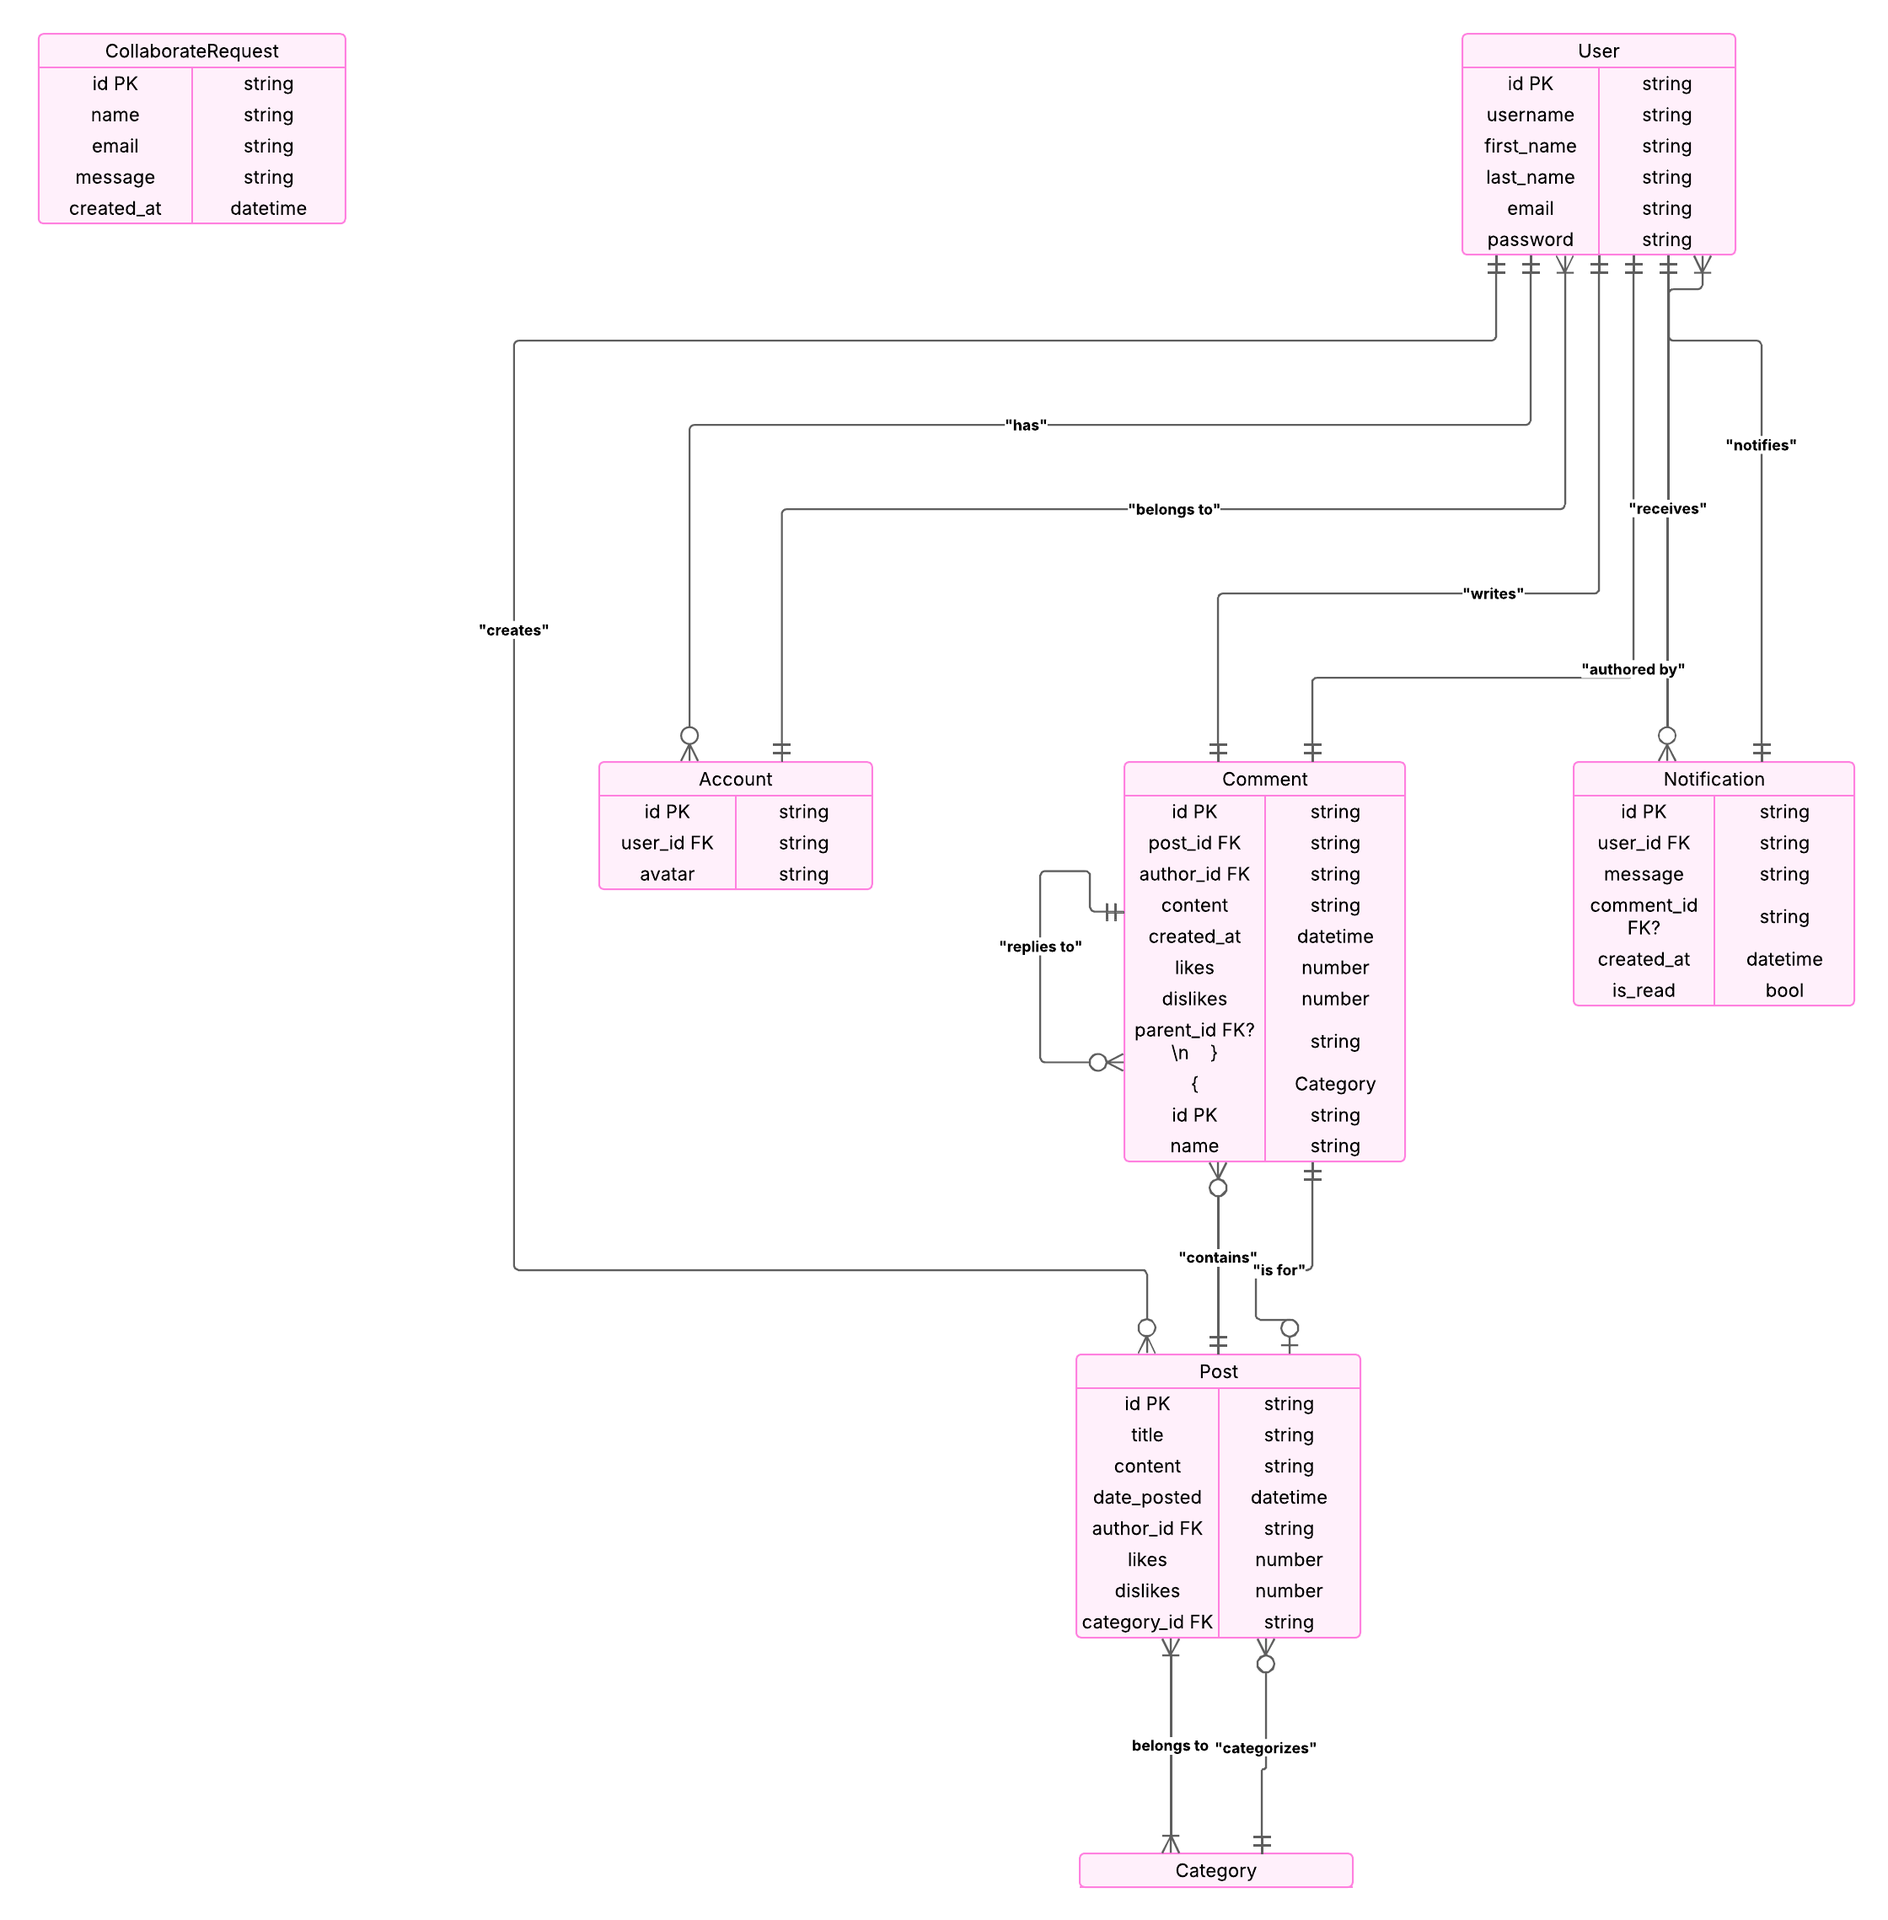
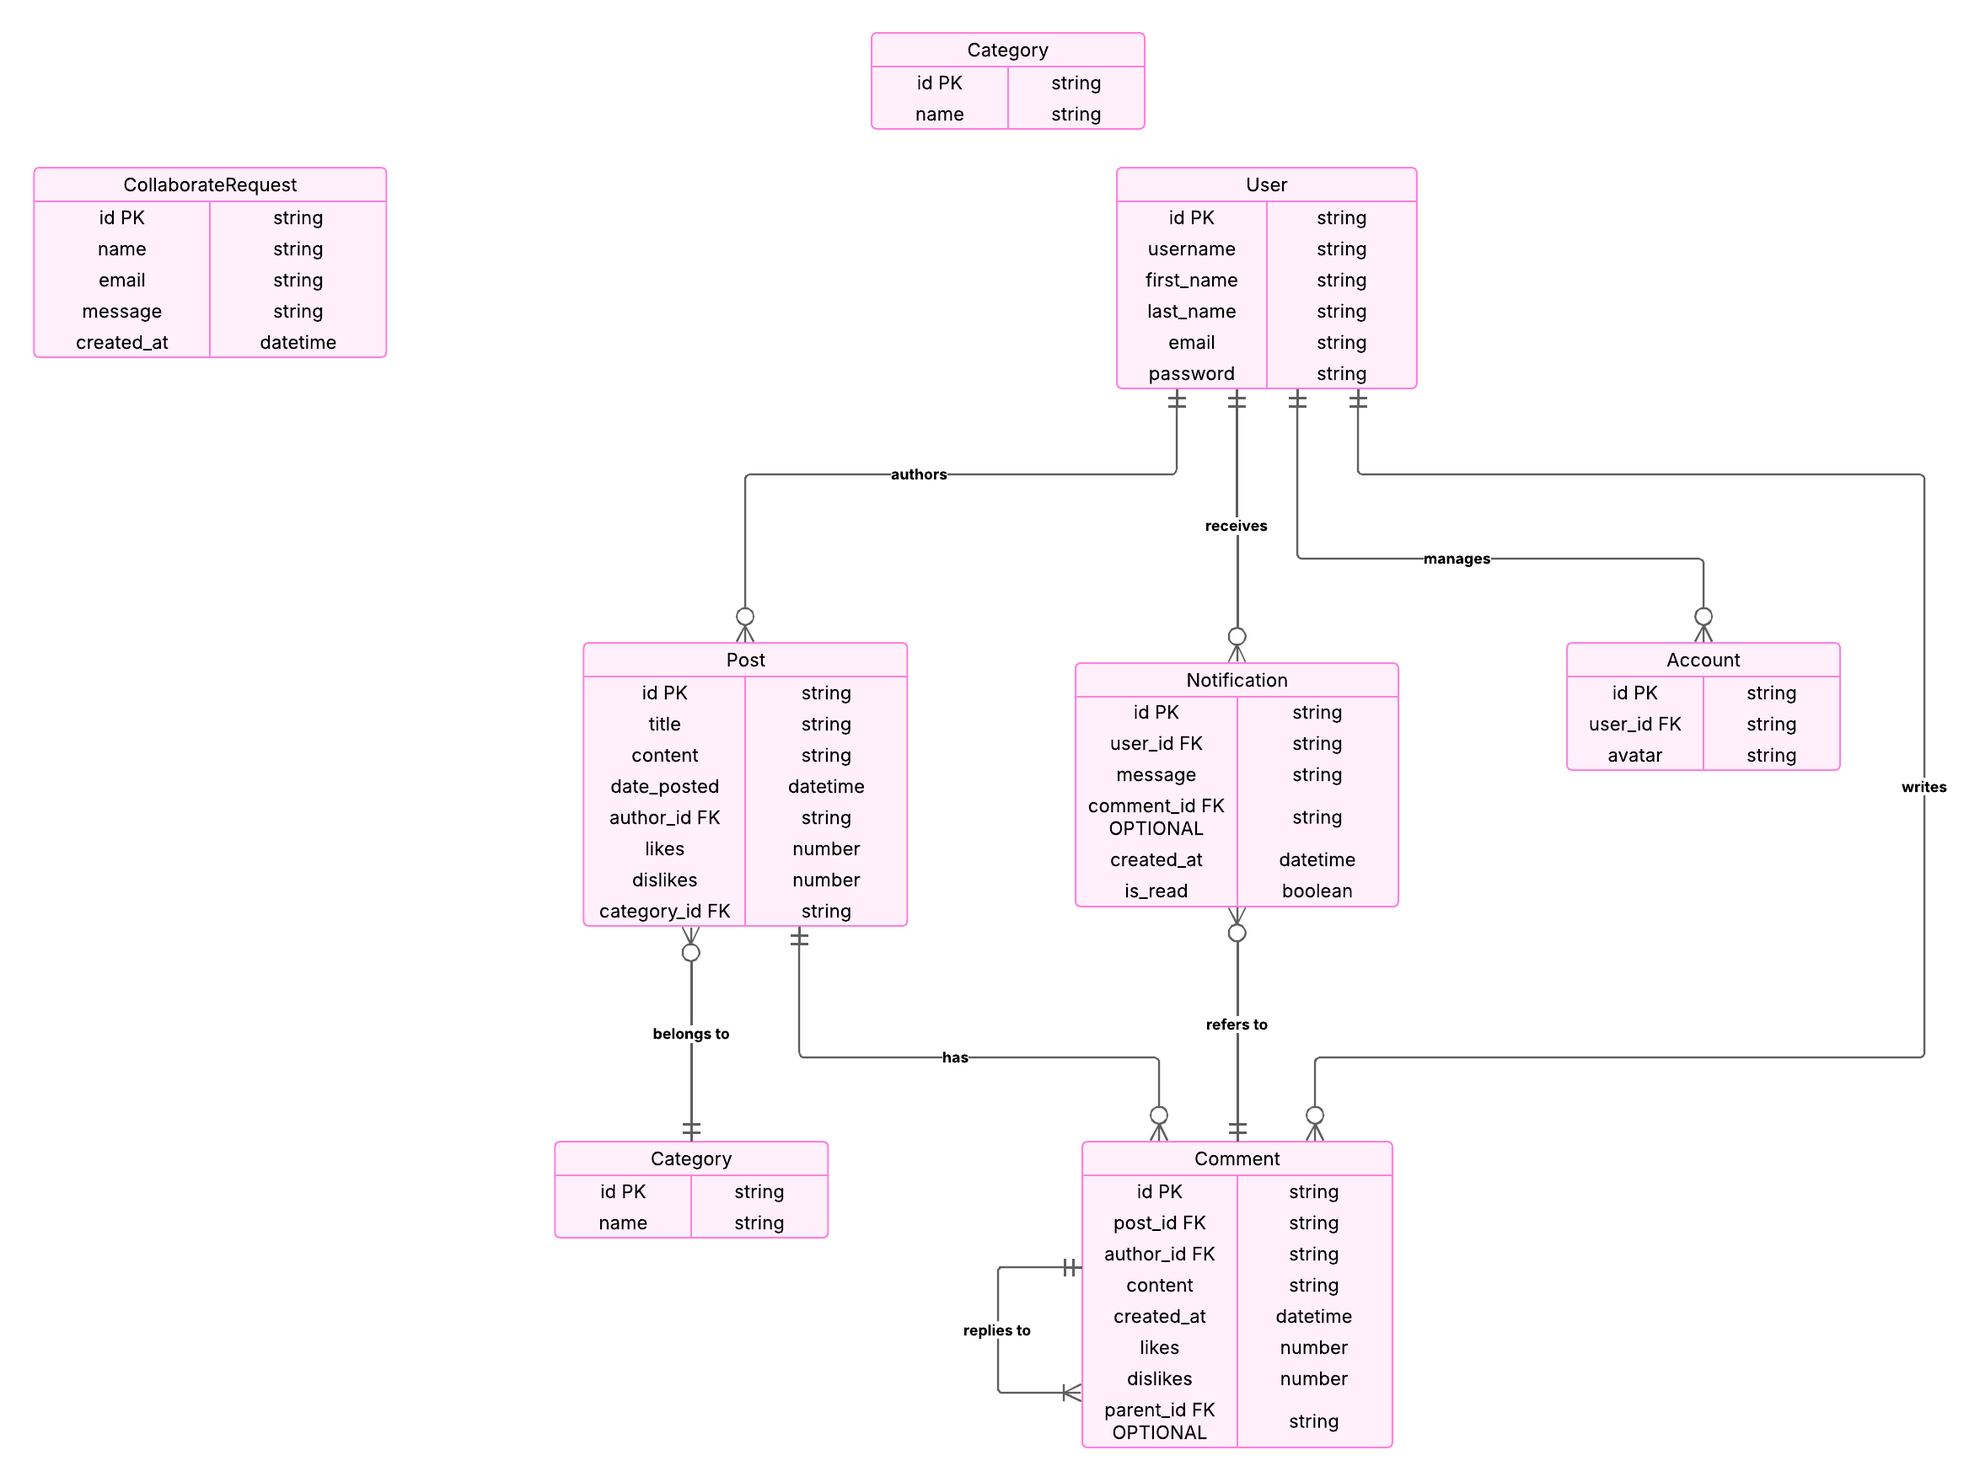
Modify ERD section in the readme file

diff --git a/README.md b/README.md
@@ -348,63 +348,93 @@ Category:<br>
 
 1. User:
 
-* Attributes:
-id (Primary Key), username, first_name, last_name, email, password.
+* id (Primary Key)
 
-* Relationships:
-One-to-One relationship with the Account entity.
-One-to-Many relationships with Post, Comment, and Notification entities, indicating that a single user can have multiple posts, comments, and notifications associated with them.
+* username
+
+* first_name
+
+* last_name
+
+* email
+
+* password
 
 2. Account:
 
-* Attributes:
-id (Primary Key), user_id (Foreign Key referencing User), avatar.
+* id (Primary Key)
 
-* Relationships:
-One-to-One relationship with the User entity, linking user accounts to their corresponding profile information.
+* user_id (Foreign Key referencing User)
+
+* avatar
 
 3. Post:
 
-* Attributes:
-id (Primary Key), title, content, date_posted, author_id (Foreign Key referencing User), likes, dislikes, category_id (Foreign Key referencing Category).
+* id (Primary Key)
 
-* Relationships:
-One-to-Many relationship with the Comment entity, indicating that each post can have multiple comments.
-Many-to-One relationship with the Category entity, linking each post to a specific category.
+* title
+
+* content
+
+* date_posted
+
+* author_id (Foreign Key referencing User)
+
+* likes
+
+* dislikes
+
+* category_id (Foreign Key referencing Category)
 
 4. Comment:
 
-* Attributes:
-id (Primary Key), post_id (Foreign Key referencing Post), author_id (Foreign Key referencing User), content, created_at, likes, dislikes, parent_id (optional Foreign Key referencing Comment for replies).
+* id (Primary Key)
 
-* Relationships:
-Many-to-One relationship with the Post entity, indicating each comment is tied to a specific post.
-Many-to-One relationship with the User entity, indicating that each comment is authored by a user.
-Self-referencing relationship allows for threading of comments (replies).
+* post_id (Foreign Key referencing Post)
+
+* author_id (Foreign Key referencing User)
+
+* content
+
+* created_at
+
+* likes
+
+* dislikes
+
+* parent_id (optional Foreign Key referencing Comment for replies)
 
 5. Category:
 
-* Attributes:
-id (Primary Key), name.
+* id (Primary Key)
 
-* Relationships:
-One-to-Many relationship with the Post entity, allowing multiple posts to be categorized under the same category.
+* name
 
 6. Notification:
 
-* Attributes:
-id (Primary Key), user_id (Foreign Key referencing User), message, comment_id (optional Foreign Key referencing Comment), created_at, is_read.
+* id (Primary Key)
 
-* Relationships:
-Many-to-One relationship with the User entity, linking each notification to a specific user.
+* user_id (Foreign Key referencing User)
+
+* message
+
+* comment_id (optional Foreign Key referencing Comment)
+
+* created_at
+
+* is_read
 
 7. CollaborateRequest:
 
-* Attributes:
-id (Primary Key), name, email, message, created_at.
+id (Primary Key)
 
-* Relationships:
-This entity stands alone with no specific references to other entities.
+* name
+
+* email
+
+* message
+
+* created_at
 
 - Characteristics of the CollaborateRequest Entity
 
@@ -418,6 +448,47 @@ Because it does not relate to other entities, it functions independently within 
 The primary purpose of the CollaborateRequest model is to collect and store collaboration inquiries from users. It gathers data without needing to connect directly to the user accounts or posts, making it self-contained.
 It can be seen as a standalone input form that exists for specific functionality (collaboration inquiries), separate from the core user and content management of the application.
 
+- Relationships
+
+1. User
+
+* 1-to-1 with Account (user_id in Account references id in User)
+
+* 1-to-many with Post (author_id in Post references id in User)
+
+* 1-to-many with Comment (author_id in Comment references id in User)
+
+* 1-to-many with Notification (user_id in Notification references id in User)
+
+2. Post
+
+* Many-to-1 with User (author_id in Post references id in User)
+
+* Many-to-1 with Category (category_id in Post references id in Category)
+
+* 1-to-many with Comment (post_id in Comment references id in Post)
+
+3. Comment
+
+* Many-to-1 with Post (post_id in Comment references id in Post)
+
+* Many-to-1 with User (author_id in Comment references id in User)
+
+* Self-referencing for replies (parent_id in Comment references id in Comment)
+
+4. Category
+
+* 1-to-many with Post (category_id in Post references id in Category)
+
+5. Notification
+
+* Many-to-1 with User (user_id in Notification references id in User)
+
+* Optional Many-to-1 with Comment (comment_id in Notification references id in Comment)
+
+6. CollaborateRequest
+
+* No relationships (independent entity)
 
 ## Wireframes
 
